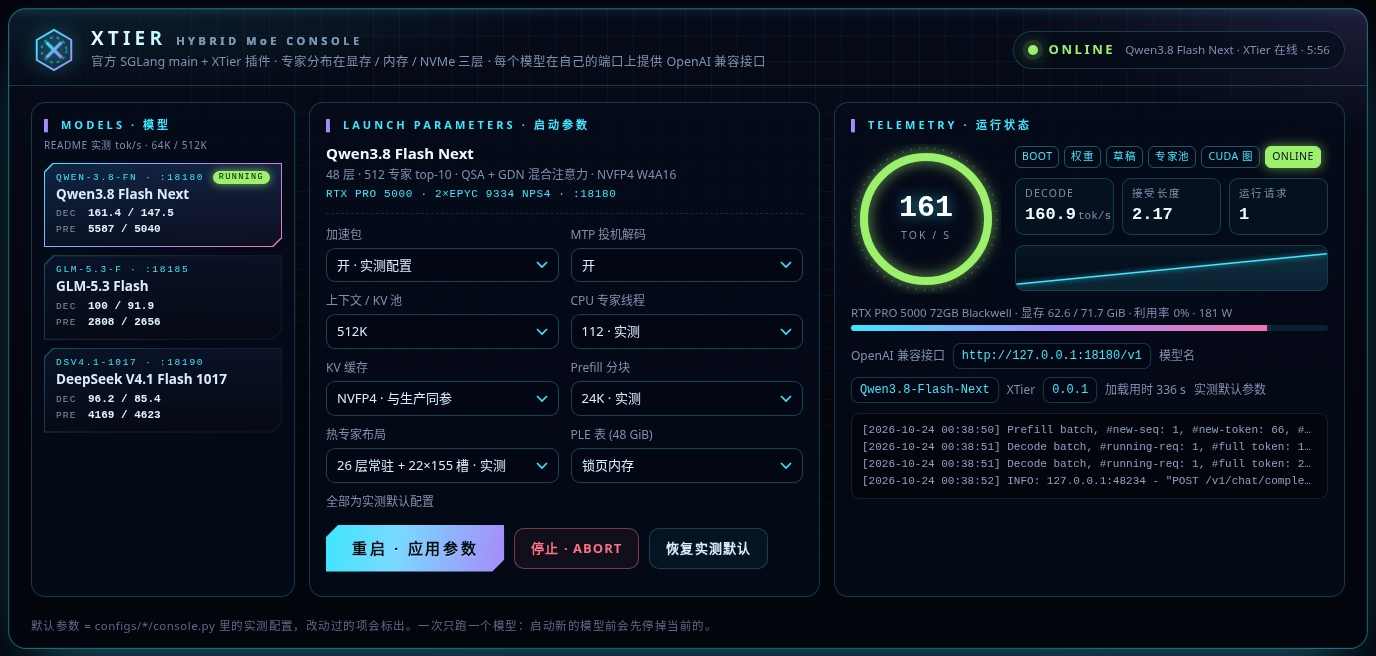
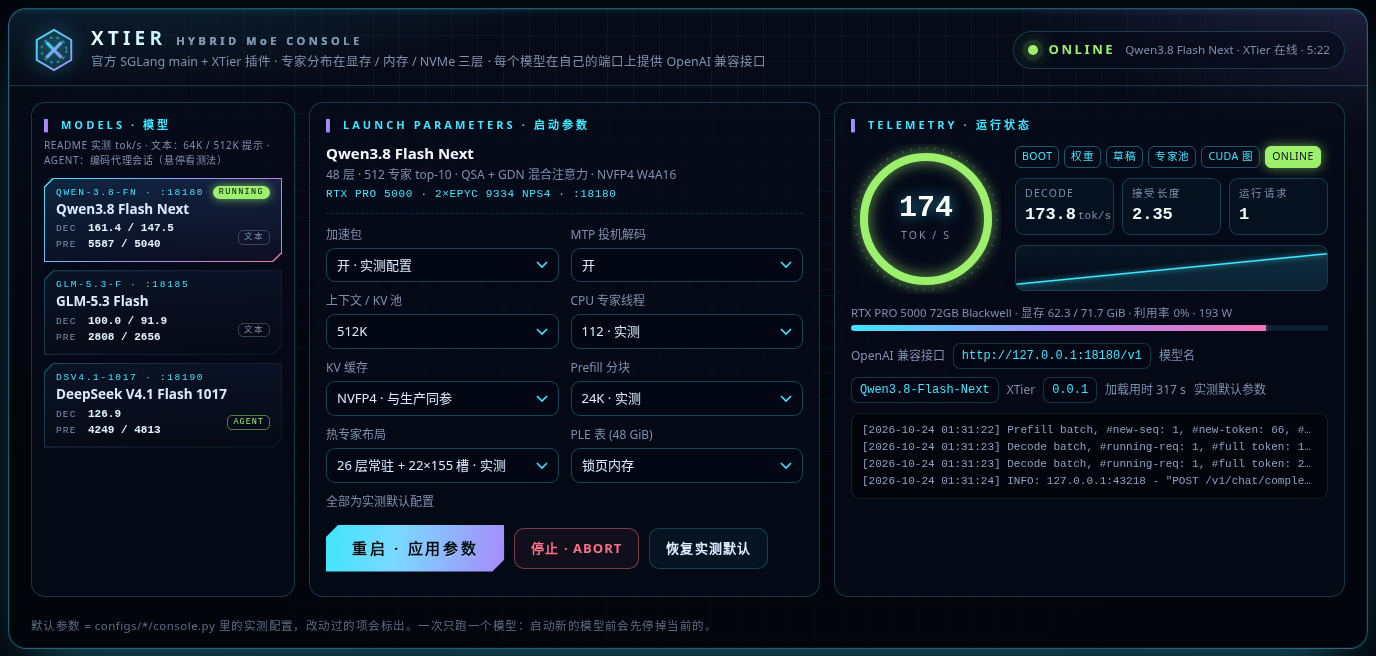
README: launch console section, agent speed for DeepSeek; production API flags in the launch scripts
- README: a section on the launch console (python3 -m xtier.console) with a screenshot. Speed comes in two kinds and
  agent speed (production's agent_bench) is the measure from now on: DeepSeek is listed by agent speed (XTier and
  production, two rounds each; decode compared on long responses, since SGLang main's DeepSeek tool-call parser does
  not stream arguments), Qwen and GLM stay on the text speed for now and are labelled so. Per-session tables in
  docs/reports/2026-10-24-qwen-kv-ds-agent.md, made by bench/agent_table.py.
- Launch scripts: --enable-cache-report for every model and the tool-call parsers glm47 (GLM) and qwen3_coder (Qwen),
  as in production. Without them GLM and Qwen returned tool calls as text and no model reported its cached prompt
  tokens (usage.prompt_tokens_details.cached_tokens, which clients such as dsh show as cache hits). Checked with dsh's
  requests (streamed chat completions, a shared 5K-token prefix, a tool) on all three models.
- Console cards: bench gives the text shown, how it was measured (agent / text, a tag on the card) and a tooltip;
  DeepSeek shows its agent speed.

diff --git a/xtier/console/ui.py b/xtier/console/ui.py
@@ -62,9 +62,11 @@ clip-path:polygon(9px 0,100% 0,100% calc(100% - 9px),calc(100% - 9px) 100%,0 100
 .xt-model .top{display:flex;align-items:center;justify-content:space-between;gap:6px;min-width:0}
 .xt-model .code{min-width:0;font-size:9.5px;letter-spacing:.18em;color:var(--c);white-space:nowrap;overflow:hidden;text-overflow:ellipsis}
 .xt-model .name{margin-top:1px;font-weight:700;font-size:13.5px;line-height:1.3;white-space:nowrap;overflow:hidden;text-overflow:ellipsis}
-.xt-model .perf{display:grid;grid-template-columns:32px minmax(0,1fr);margin-top:3px;font-size:11px;line-height:1.45}
+.xt-model .perf{display:grid;grid-template-columns:32px minmax(0,1fr) auto;margin-top:3px;font-size:11px;line-height:1.45}
 .xt-model .perf span{font-size:9.5px;letter-spacing:.12em;color:var(--d);align-self:center}
 .xt-model .perf b{font-weight:600;color:#e3f3ff;white-space:nowrap}
+.xt-model .perf .kind{grid-column:3;grid-row:1/span 2;align-self:center;font-style:normal;font-size:8.5px;line-height:1.5;letter-spacing:.12em;padding:0 5px;border-radius:5px;border:1px solid rgba(127,144,173,.4);color:var(--d)}
+.xt-model .perf .kind[data-kind=agent]{color:var(--g);border-color:rgba(156,240,107,.5)}
 .xt-model .run{flex:none;display:none;font-size:8.5px;line-height:1.5;letter-spacing:.16em;padding:0 6px;border-radius:999px;color:#04110a;background:var(--g);box-shadow:0 0 10px rgba(156,240,107,.7)}
 .xt-model[data-running=loading] .run{display:block;background:var(--a);box-shadow:0 0 10px rgba(251,191,36,.6)}
 .xt-model[data-running=online] .run{display:block}
@@ -169,7 +171,7 @@ def card_html(data):
 <div class=xt-body>
   <div class="xt-panel xt-rail" role=group aria-label="XTier 模型">
     <h4>MODELS · 模型</h4>
-    <div class=xt-legend>README 实测 tok/s · 64K / 512K</div>
+    <div class=xt-legend>README 实测 tok/s · 文本：64K / 512K 提示 · AGENT：编码代理会话（悬停看测法）</div>
     <div class=xt-models role=tablist></div>
   </div>
   <form class=xt-panel id=xt-form autocomplete=off>
@@ -233,12 +235,14 @@ JS = r"""
   let busy = false;
 
   const tabs = root.querySelector('.xt-models');
+  // bench: the README speeds as text (dec, pre), how they were measured (kind: agent / text) and a tooltip (title)
   tabs.innerHTML = models.map(m => {
     const d = data.models[m], b = d.bench || {};
-    const pair = (x, y) => `${x ?? '--'} / ${y ?? '--'}`;
-    const perf = b.d64 || b.p64 ? `<div class="perf xt-mono"><span>DEC</span><b>${esc(pair(b.d64, b.d512))}</b>` +
-      `<span>PRE</span><b>${esc(pair(b.p64, b.p512))}</b></div>` : '';
-    return `<button type=button class=xt-model role=tab data-model="${esc(m)}" aria-selected=false title="${esc(d.arch || '')}"><div>
+    const kind = {agent: 'AGENT', text: '文本'}[b.kind] || '';
+    const perf = b.dec || b.pre ? `<div class="perf xt-mono"><span>DEC</span><b>${esc(b.dec || '--')}</b>` +
+      (kind ? `<i class=kind data-kind="${esc(b.kind)}">${kind}</i>` : '') + `<span>PRE</span><b>${esc(b.pre || '--')}</b></div>` : '';
+    const tip = [d.arch, b.title].filter(Boolean).join('\n');
+    return `<button type=button class=xt-model role=tab data-model="${esc(m)}" aria-selected=false title="${esc(tip)}"><div>
       <div class=top><span class="code xt-mono">${esc(d.code || m)} · :${esc(d.port)}</span><span class="run xt-mono"></span></div>
       <div class=name>${esc(d.name)}</div>${perf}</div></button>`;
   }).join('');

diff --git a/bench/agent_table.py b/bench/agent_table.py
@@ -1,0 +1,65 @@
+"""agent_bench results as the production README's tables: per session (context start -> end, cold prefill TTFT / tok/s,
+requests, output tokens, decode tok/s, DSpark accept, ms per step) and all, for each round given; then both rounds
+together, and the long responses (>= 300 output tokens) only, the subset XTier can time on every kind of request.
+    python3 agent_table.py LABEL R1.json R2.json [LABEL R1.json R2.json ...]"""
+import json
+import sys
+
+ORDER = ['64k', '128k-write', '256k', '384k', '500k']
+
+
+def timed(rows):
+    return [r for r in rows if r.get('decode_s') and r.get('decode_tps')]
+
+
+def agg(rows):
+    rows = timed(rows)
+    if not rows:
+        return None
+    out = sum(r['output_tokens'] for r in rows)
+    dec = sum(r['decode_s'] for r in rows)
+    steps = sum(r['verify_steps'] or 0 for r in rows)
+    return {'n': len(rows), 'out': out, 'tps': out / dec, 'accept': out / steps if steps else None,
+            'ms': dec * 1000 / steps if steps else None}
+
+
+def fmt(a):
+    if a is None:
+        return '— | — | — | —'
+    return f"{a['out']:,} | {a['tps']:.1f} | {a['accept']:.2f} | {a['ms']:.1f}"
+
+
+args = sys.argv[1:]
+while args:
+    label, files, args = args[0], args[1:3], args[3:]
+    rounds = [json.load(open(f)) for f in files]
+    print(f'## {label}')
+    for i, d in enumerate(rounds, 1):
+        rows, s = d['rows'], d['summary']
+        cold = {c['session']: c for c in s.get('cold_prefill', [])}
+        print(f'\n第 {i} 轮（{len(rows)} 个请求，可计时 {len(timed(rows))} 个）\n')
+        print('| 会话 | 上下文（起 → 止） | 冷 prefill：首字 s / tok/s | 请求数 | 可计时 | 输出 token | decode tok/s | 接受长度 | 每步 ms |')
+        print('|---|---|---:|---:|---:|---:|---:|---:|---:|')
+        for name in ORDER:
+            srows = [r for r in rows if r['session'] == name]
+            if not srows:
+                continue
+            ctx = [r['prompt_tokens'] for r in srows]
+            c = cold.get(name, {})
+            first = srows[0]
+            ttft = c.get('ttft_s', first['ttft_s'])
+            uncached = c.get('uncached_tokens') or c.get('prompt_tokens') or first['prompt_tokens']
+            a = agg(srows)
+            print(f"| {name} | {min(ctx) // 1000}K → {max(ctx) // 1000}K | {ttft:.1f} / {uncached / ttft:,.0f} | "
+                  f"{len(srows)} | {a['n'] if a else 0} | {fmt(a)} |")
+        a = agg(rows)
+        print(f"| **全部** | | | {len(rows)} | {a['n']} | {fmt(a)} |")
+    both = [r for d in rounds for r in d['rows']]
+    a, long = agg(both), agg([r for r in both if r['output_tokens'] >= 300])
+    print(f"\n两轮合计：可计时 {a['n']} 个请求，decode {a['tps']:.1f} tok/s，接受长度 {a['accept']:.2f}，每步 {a['ms']:.1f} ms")
+    print(f"长回复（≥ 300 token）：{long['n']} 个，decode {long['tps']:.1f} tok/s，接受长度 {long['accept']:.2f}，每步 {long['ms']:.1f} ms")
+    for i, d in enumerate(rounds, 1):
+        lr = agg([r for r in d['rows'] if r['output_tokens'] >= 300])
+        print(f"  第 {i} 轮长回复：{lr['n']} 个，{lr['tps']:.1f} tok/s，接受长度 {lr['accept']:.2f}，每步 {lr['ms']:.2f} ms")
+    cached = [r.get('cached_tokens') for r in both]
+    print(f"cached_tokens 上报：{sum(c is not None for c in cached)} / {len(cached)} 个请求\n")

diff --git a/configs/ds41-pro5000-nps4/console.py b/configs/ds41-pro5000-nps4/console.py
@@ -12,7 +12,10 @@ MODEL = {
     'name': 'DeepSeek V4.1 Flash 1017', 'code': 'DSV4.1-1017', 'port': 18190, 'served': 'DeepSeek-V4.1-Flash-1017',
     'spec': 'DSpark', 'arch': '40 层 · 384 专家 · Engram 189 GB 行放 NVMe · MXFP4',
     'hardware': 'RTX PRO 5000 · 2×EPYC 9334 NPS4', 'ready_timeout': 2400,
-    'bench': {'p64': 4169, 'd64': 96.2, 'p512': 4623, 'd512': 85.4},
+    # README agent speed (production's agent_bench, two rounds): decode of the long responses (>= 300 tokens),
+    # cold prefill of the 64K / 500K sessions (mean of the rounds)
+    'bench': {'kind': 'agent', 'dec': '126.9', 'pre': '4249 / 4813',
+              'title': 'agent 速度（生产的 agent_bench，两轮）：decode = 长回复（≥ 300 token），prefill = 64K / 500K 会话的冷 prefill'},
     'options': common_options('DSpark') + [
         {'key': 'engram', 'label': 'Engram 行缓存', 'default': '4',
          'choices': [['4', '4 GiB · 实测'], ['8', '8 GiB'], ['16', '16 GiB']]},

diff --git a/configs/qwen38-pro5000-nps4/console.py b/configs/qwen38-pro5000-nps4/console.py
@@ -17,8 +17,9 @@ MODEL = {
     'name': 'Qwen3.8 Flash Next', 'code': 'QWEN-3.8-FN', 'port': 18180, 'served': 'Qwen3.8-Flash-Next',
     'spec': 'MTP', 'arch': '48 层 · 512 专家 top-10 · QSA + GDN 混合注意力 · NVFP4 W4A16',
     'hardware': 'RTX PRO 5000 · 2×EPYC 9334 NPS4', 'ready_timeout': 1800,
-    # README "+ 加速包" row: prefill / decode tok/s at 64K and 512K
-    'bench': {'p64': 5587, 'd64': 161.4, 'p512': 5040, 'd512': 147.5},
+    # README "+ 加速包" row, text speed: decode / cold prefill tok/s at 64K / 512K
+    'bench': {'kind': 'text', 'dec': '161.4 / 147.5', 'pre': '5587 / 5040',
+              'title': '文本速度（README）：64K / 512K 提示，冷 prefill，输出 1K token'},
     'options': common_options('MTP') + [
         {'key': 'kv', 'label': 'KV 缓存', 'default': 'nvfp4', 'choices': [['nvfp4', 'NVFP4 · 与生产同参'], ['fp8', 'FP8']],
          'off_when': [{'packs': 'off'}]},

diff --git a/configs/glm53-pro5000-nps4/console.py b/configs/glm53-pro5000-nps4/console.py
@@ -14,7 +14,8 @@ MODEL = {
     'name': 'GLM-5.3 Flash', 'code': 'GLM-5.3-F', 'port': 18185, 'served': 'GLM-5.3-Flash-NVFP4',
     'spec': 'EAGLE', 'arch': '42 层 · 288 专家 · DSA 稀疏注意力 · NVFP4 专家 + FP8 稠密层',
     'hardware': 'RTX PRO 5000 · 2×EPYC 9334 NPS4', 'ready_timeout': 2700,
-    'bench': {'p64': 2808, 'd64': 100.0, 'p512': 2656, 'd512': 91.9},
+    'bench': {'kind': 'text', 'dec': '100.0 / 91.9', 'pre': '2808 / 2656',
+              'title': '文本速度（README）：64K / 512K 提示，冷 prefill，输出 1K token'},
     'options': common_options('EAGLE') + [
         {'key': 'rs', 'label': '无损拒绝采样', 'default': 'on',
          'choices': [['on', '开 · 热词表 + 置信度截断'], ['off', '关']],

diff --git a/tests/console_check.py b/tests/console_check.py
@@ -27,6 +27,8 @@ combos = 0
 for mid, m in models.items():
     keys = [o['key'] for o in m['options']]
     assert len(keys) == len(set(keys)), mid
+    b = m.get('bench') or {}   # the card's README speeds: how they were measured and the text shown
+    assert b.get('kind') in ('agent', 'text') and isinstance(b.get('dec'), str) and isinstance(b.get('pre'), str), mid
     d = console.defaults(mid)
     assert console.validate(mid, {}) == d
     for o in m['options']:

diff --git a/README.md b/README.md
@@ -27,11 +27,11 @@ xtier/
 │              deepseek_v4（Engram 行放 NVMe、SM120 候选索引器、FP8 GEMM 调优配置）、
 │              speculative（通用 EAGLE 投机解码：热词表配无损拒绝采样、草稿温度、按置信度截断验证）
 ├── tables/    大嵌入表的行放在 NVMe：多段多文件、任意行宽、行缓存、CUDA 图内查表
-├── console/   控制台：一个网页选模型、调启动参数、启动 / 停止，跟踪加载阶段与 decode 遥测（只用标准库）
+├── console/   启动台：一个网页选模型、调启动参数、启动 / 停止，跟踪加载阶段与 decode 遥测（只用标准库）
 └── platform.py  与模型无关的主机修正（TileLang 目标选择）
 csrc/          CPU 引擎：AVX-512 / AVX2 专家内核、NUMA 线程池、CPU 与 GPU 之间的信箱通信
-configs/       每个"模型 × 硬件"的启动配置，console.py 是它在控制台里的条目（选项、默认值、启动命令）
-tests/         单层测试（引擎、信箱、缓存、prefill、格式适配、hc_mix、投机截断、QSA NVFP4）与控制台检查
+configs/       每个"模型 × 硬件"的启动配置，console.py 是它在启动台里的条目（选项、默认值、启动命令）
+tests/         单层测试（引擎、信箱、缓存、prefill、格式适配、hc_mix、投机截断、QSA NVFP4）与启动台检查
 bench/         验收脚本（PPL、照抄、验证步、并发、prefill 延迟）与结果
 ```
 
@@ -45,10 +45,23 @@ XTIER=1 XTIER_THREADS=112 XTIER_MAIN_CPUS=auto XTIER_CACHE_SLOTS=155 \
   python -m sglang.launch_server --model-path <MoE 检查点> --cuda-graph-backend-prefill disabled ...
 ```
 
-开关见 [xtier/config.py](xtier/config.py)；按模型和硬件的完整启动参数见 [configs/](configs/)。
+开关见 [xtier/config.py](xtier/config.py)；按模型和硬件的完整启动参数见 [configs/](configs/)，也可以用下面的启动台。
 
-也可以用控制台：在仓库根目录运行 `python3 -m xtier.console`，打开 http://127.0.0.1:8100/ ，选模型、调参数（默认是实测配置）、
-启动 / 停止，看加载阶段和 decode 速度；模型服务在自己的端口上提供 OpenAI 兼容接口。见 [docs/console.md](docs/console.md)。
+## 启动台
+
+![XTier 启动台](docs/images/console.png)
+
+在仓库根目录运行 `python3 -m xtier.console`（只用 Python 标准库），打开 http://127.0.0.1:8100/ ：
+
+- **左边模型栏**：每个模型一张小卡片，写着端口和 README 实测速度，标签注明测法（AGENT = agent 速度，文本 = 文本速度），
+  模型多了在栏内滚动。
+- **中间启动参数**：默认就是实测配置，改过的项会标出。公共的有加速包开关（关 = 测速表里「官方 main」的配置）、投机解码、上下文、
+  CPU 专家线程；各模型自己的有 Qwen 的 KV 精度、分块、常驻层布局、PLE 表放内存还是 NVMe，GLM 的拒绝采样、热专家槽、分块，
+  DeepSeek 的 Engram 行缓存、热专家槽、分块。
+- **右边运行状态**：加载阶段（权重 → 草稿 → 专家池 → CUDA 图 → 预热 → 在线），在线后显示 decode 速度、接受长度、显存和日志。
+
+一次只跑一个模型；模型服务在自己的端口上提供 OpenAI 兼容接口，启动台退出不影响它。加模型只要在 `configs/<模型>-<硬件>/` 里
+加一个 `console.py`（卡片、选项、启动命令）。细节见 [docs/console.md](docs/console.md)。
 
 ## 支持的模型
 
@@ -60,9 +73,34 @@ XTIER=1 XTIER_THREADS=112 XTIER_MAIN_CPUS=auto XTIER_CACHE_SLOTS=155 \
 
 ## 测速
 
-单卡 RTX PRO 5000 72GB + 2× EPYC 9334（NPS4）+ 384 GiB DDR5，官方 SGLang main 8cd3c494。agent 场景：编码 agent 的会话记录截成
-64K / 512K token 当提示，冷 prefill（先清前缀缓存），输出 1K token（含思考），单请求、默认采样；每个配置先用一个 32K 的提示
-预热（[bench/context_speed.py](bench/context_speed.py)）。prefill 和 decode 的单位都是 tok/s，表里只放最新一次的结果。
+单卡 RTX PRO 5000 72GB + 2× EPYC 9334（NPS4）+ 384 GiB DDR5，官方 SGLang main 8cd3c494，单位 tok/s，表里只放最新一次的结果。
+两种测法，以后统一用 agent 速度：
+
+- **agent 速度**：与生产仓库同一个 `bench/agent_bench.py`，模拟编码代理（dsh / Claude Code 一类工具）：5 个会话从 64K 到约 500K，
+  铺满 512K KV 池，多步调用工具，后续请求命中前缀缓存，服务端默认采样，同一次启动连跑两轮。目前 DeepSeek 用这个。
+- **文本速度**：编码代理的会话记录截成 64K / 512K token 当提示，冷 prefill（先清前缀缓存），输出 1K token（含思考），单请求、
+  默认采样，每个配置先用一个 32K 的提示预热（[bench/context_speed.py](bench/context_speed.py)）。Qwen、GLM 目前是这个，之后换成
+  agent 速度。
+
+### agent 速度
+
+| DeepSeek V4.1 Flash 1017（DSpark） | 轮 | 冷 prefill 64K 会话 | 冷 prefill 500K 会话 | decode（长回复） | 接受长度 | 每步 |
+|---|:-:|---:|---:|---:|---:|---:|
+| XTier + 加速包 | 1 | 3,503 | 4,801 | 121.7 | 4.13 | 33.9 ms |
+|  | 2 | 4,994 | 4,825 | 131.5 | 4.45 | 33.8 ms |
+| 生产（lsglang_ds4.1，10-22） | 1 | 3,377 | 3,856 | 142.7 | 4.56 | 31.9 ms |
+|  | 2 | 4,431 | 3,856 | 136.1 | 4.36 | 32.0 ms |
+
+- **decode 只比长回复**（≥ 300 token，写代码、写总结）：官方 main 的 DeepSeek 工具调用解析不逐 token 流式返回参数，XTier 上工具调用
+  请求量不出 decode（两轮 149 个请求里能计时 18 个）；生产所有请求都能计时，算上工具调用（输出短、接受长度高）是 158.6 / 144.6 tok/s。
+- 接受长度随回复内容变，比较两边看每步耗时：XTier 慢约 6%（CPU 专家侧与生产持平，差在 GPU 侧，在查）。冷 prefill XTier 快 10–25%
+  （两边第 1 轮的 64K 会话都是启动后的第一个请求，偏慢）。
+- 加速包精度：无损——块 FP8 GEMM 的分块配置和内核、Engram 提前查表（取到的行不变）、草稿词表头 FP8（只影响草稿提案，输出仍由主模型
+  验证），PPL 3.319 → 3.317，照抄 0 错。官方 main（不开加速包）还没按 agent 测。
+- 每会话的明细（上下文起止、首字、请求数）见[报告](docs/reports/2026-10-24-qwen-kv-ds-agent.md)，原始数据
+  `bench/results/agent-bench-ds41-xtier-r{1,2}-20261023.json`。
+
+### 文本速度（Qwen、GLM）
 
 | 模型 | 配置 | 64K prefill | 64K decode | 512K prefill | 512K decode | 加速包精度 |
 |---|---|---:|---:|---:|---:|---|
@@ -70,13 +108,17 @@ XTIER=1 XTIER_THREADS=112 XTIER_MAIN_CPUS=auto XTIER_CACHE_SLOTS=155 \
 |  | + 加速包 | 5587 | 161.4（14.47 ms） | 5040 | 147.5（15.62 ms） | 轻微：KV 存 NVFP4（与生产相同，每 16 个值一个 E4M3 缩放；读出与官方反量化逐位一致），照抄 0 错、PPL 3.481；hc_mix 换成重叠的持久内核、PLE 层与 QSA 索引器分段与官方逐位一致 |
 | GLM-5.3 Flash（EAGLE） | 官方 main | 2663 | 78.6（34.93 ms） | 2518 | 75.0（33.83 ms） | 基准 |
 |  | + 加速包 | 2808 | 100.0（29.16 ms） | 2656 | 91.9（26.78 ms） | 轻微：BF16 注意力 / 稠密层存成 FP8（每行每 128 列一个 scale），PPL 3.987 → 3.998（+0.3%）；拒绝采样与截断验证无损（输出分布与不用投机解码相同），照抄 0 错 |
-| DeepSeek V4.1 Flash 1017（DSpark） | 官方 main | 3318 | 64.9（49.93 ms） | 3627 | 66.1（51.83 ms） | 基准 |
-|  | + 加速包 | 4169 | 96.2（32.59 ms） | 4623 | 85.4（35.99 ms） | 无损：块 FP8 GEMM 的分块配置和内核、Engram 提前查表（取到的行不变）、草稿词表头 FP8（只影响草稿提案，输出仍由主模型验证），PPL 3.319 → 3.317 |
 
 - **decode**：5 次回答的中位数（1 次冷启动，加 4 次命中前缀缓存重发，上下文相同、各自采样）。括号里是每个验证步的耗时。
-  投机解码每步出几个 token 取决于这段文字好不好猜，单次 tok/s 能差 30%。Qwen 和 DeepSeek 的草稿长度固定，每步耗时 5 次之间
+  投机解码每步出几个 token 取决于这段文字好不好猜，单次 tok/s 能差 30%。Qwen 的草稿长度固定，每步耗时 5 次之间
   只差 1–3%，比较两种配置看括号里的数；GLM 开了自适应草稿步数，每步耗时也随接受长度变（±5%）。例如 Qwen 两行的 decode
   tok/s 差 10%，大部分是这几次回答的接受长度不同（2.10 对 2.22、2.16 对 2.38），加速包本身每步只快 2%。
+- 512K 一列的提示是 510K token，加上 1K 输出不超过 524288 的上下文。每个配置的完整数据（首 token、5 次 decode 的范围、
+  接受长度）：加速包（10-23 夜重测）见 [reports/2026-10-23-speculative-fp4kv.md](docs/reports/2026-10-23-speculative-fp4kv.md#readme-重测加速包三行10-23-夜)，
+  官方 main 见 [reports/2026-10-23-step3-ds-tables.md](docs/reports/2026-10-23-step3-ds-tables.md#readme-测速)。
+
+### 配置（两种测法通用）
+
 - **官方 main**：XTier 后端加上跑起来必需的修正，不开任何提速项。必需的修正：Qwen 的 PLE 表锁页分配；GLM 的量化排除、DSA
   别名、NextN 草稿量化；DeepSeek 的 SM120 候选索引器、Engram 行放 NVMe、尾部重放不走 CUDA 图。
 - **热专家布局与启动参数与生产相同**：Qwen NVFP4 KV、其余层每层 155 槽；GLM 每层 60 槽、16K 分块、BF16 SSM 状态、拒绝采样；
@@ -89,15 +131,15 @@ XTIER=1 XTIER_THREADS=112 XTIER_MAIN_CPUS=auto XTIER_CACHE_SLOTS=155 \
   草稿温度 ×0.8、按草稿置信度截断验证，截掉的 token 跳过 CPU 专家，`xtier/packs/speculative/`）；
   DeepSeek 是调好的块 FP8 GEMM 配置、MXFP8 走 FlashInfer CUTLASS（解码宽度走 b12x）、Engram 提前查表（`XTIER_ENGRAM_PREFETCH`）
   和草稿词表头 FP8（`XTIER_DRAFT_LMHEAD_FP8`）。
-- **DeepSeek 按生产的测法**（生产仓库 lsglang_ds4.1 的 `bench/agent_bench.py`：五个编码代理会话从 64K 到约 500K，两轮）：两边都能逐 token 计时的长回复
-  （≥ 300 token）每步 33.9 ms（生产 32.0 ms，+6%），接受长度 4.1–4.5（生产 4.4–4.6）；冷 prefill 4832–4994 tok/s（生产
-  3856–4431）。官方 main 的 DeepSeek 工具调用不逐 token 流式返回参数，这类请求测不了 decode，见报告。
-- 512K 一列的提示是 510K token，加上 1K 输出不超过 524288 的上下文。每个配置的完整数据（首 token、5 次 decode 的范围、
-  接受长度）：加速包三行（10-23 夜重测）见 [reports/2026-10-23-speculative-fp4kv.md](docs/reports/2026-10-23-speculative-fp4kv.md#readme-重测加速包三行10-23-夜)，
-  官方 main 三行见 [reports/2026-10-23-step3-ds-tables.md](docs/reports/2026-10-23-step3-ds-tables.md#readme-测速)。
+- **接口参数与生产相同**：推理解析、工具调用解析（DeepSeek `deepseekv41`、GLM `glm47`、Qwen `qwen3_coder`）和缓存命中上报
+  （`--enable-cache-report`：usage 里的 `prompt_tokens_details.cached_tokens`，dsh 一类客户端据此显示缓存命中）。
 
 ## 版本更新
 
+- 2026-10-24（夜）：README 加启动台介绍；测速分成 agent 速度和文本速度，以后统一用 agent 速度：DeepSeek 改列 agent 速度（与生产
+  同一套 agent_bench，每会话明细见 [reports/2026-10-24-qwen-kv-ds-agent.md](docs/reports/2026-10-24-qwen-kv-ds-agent.md)），Qwen、GLM
+  暂为文本速度。启动参数补上生产的接口参数：三个模型 `--enable-cache-report`，GLM、Qwen 的工具调用解析器（`glm47`、`qwen3_coder`）；
+  按 dsh 的请求（流式 chat completions）实测三个模型：缓存命中正常上报，工具调用正常解析。
 - 2026-10-24：控制台 `xtier/console/`（`python3 -m xtier.console`）：一个网页管所有模型——选模型、调启动参数（默认是实测配置）、
   启动 / 停止，跟踪加载阶段与 decode 遥测；每个模型在 `configs/*/console.py` 里描述，加模型只要加一个配置目录。
   见 [docs/console.md](docs/console.md)。

diff --git a/docs/console.md b/docs/console.md
@@ -1,9 +1,9 @@
-# XTier 控制台
+# XTier 启动台
 
 一个网页管所有模型：选模型、调启动参数（默认是实测配置，改过的项会标出）、启动 / 停止，实时看加载阶段（权重 → 草稿 →
 专家池 → CUDA 图 → 在线）和 decode 遥测（tok/s、接受长度、显存）。只用 Python 标准库，不需要 SGLang 或 torch。
 
-![XTier 控制台](images/console.png)
+![XTier 启动台](images/console.png)
 
 ## 运行
 
@@ -25,7 +25,8 @@ python3 -m xtier.console       # http://127.0.0.1:8100/
 - 一次只跑一个模型：启动新模型前先停掉当前的，等显存释放；GPU 上别的进程占着超过 2 GiB 就报错、不启动。
 - 模型服务在自己的端口上提供 SGLang 的 OpenAI 兼容接口（`http://127.0.0.1:端口/v1`），控制台不转发请求。控制台退出或重启
   不影响正在跑的模型服务，重新打开后接着显示它的状态。
-- 页面上的速度数字是 README 测速表里的实测值（64K / 512K 上下文）。
+- 模型卡片上的速度是 README 测速表里的实测值，标签注明测法：AGENT = agent 速度（编码代理会话，以后统一用这个），
+  文本 = 文本速度（64K / 512K 提示）；鼠标悬停看具体口径。
 
 ## 加一个模型
 
@@ -42,7 +43,8 @@ MODEL = {
     'id': 'mymodel', 'order': 40,                 # 唯一的 id；order 决定在列表里的位置
     'name': 'My Model', 'code': 'MY-MODEL', 'port': 18200, 'served': 'My-Model',
     'spec': 'EAGLE', 'arch': '一行结构说明', 'hardware': '一行硬件说明', 'ready_timeout': 1800,
-    'bench': {'p64': 0, 'd64': 0.0, 'p512': 0, 'd512': 0.0},   # README 实测 tok/s：prefill / decode × 64K / 512K
+    # README 实测速度：卡片上显示的 decode / prefill 文字、测法（agent / text）、悬停说明
+    'bench': {'kind': 'agent', 'dec': '120.0', 'pre': '4000 / 3800', 'title': 'agent 速度：……'},
     # 公共的四项（加速包、投机解码、上下文、CPU 线程）+ 模型自己的；第一个取值写实测配置
     'options': common_options('EAGLE') + [
         {'key': 'slots', 'label': '热专家槽 / 层', 'default': '60',
